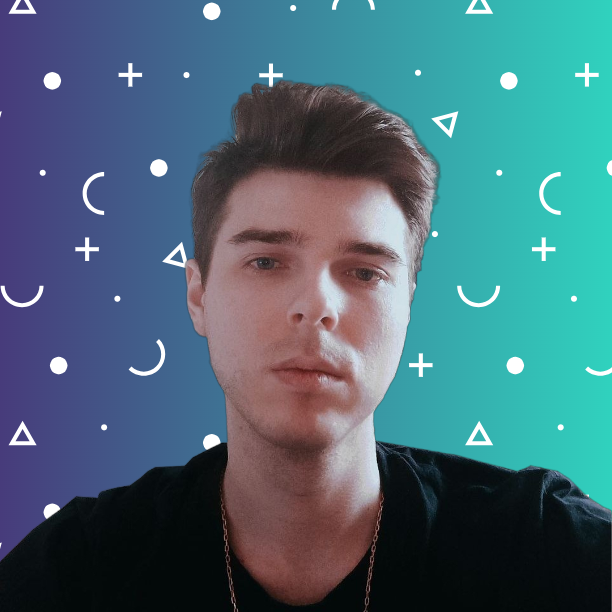
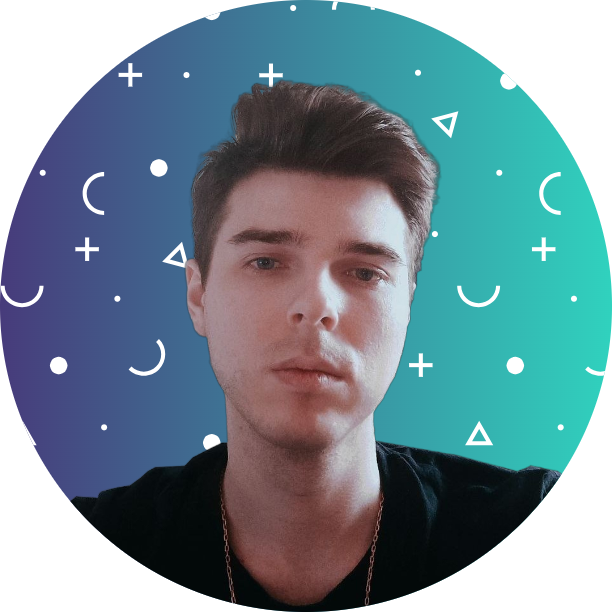
v15

Changed region(s): [[0.0, 0.0, 1.0, 1.0], [0.0, 0.0, 0.4657, 0.4657]]

diff --git a/vite-summary/src/components/CardsProject/CardsProject.jsx b/vite-summary/src/components/CardsProject/CardsProject.jsx
@@ -4,6 +4,9 @@ import CardComponent from '../CardComponent/CardComponent';
 import { useEffect, useState, useRef } from 'react';
 
 function CardsProject({ allCards }) {
+  
+  const [isAllCardsLoaded, setIsAllCardsLoaded] = useState(false);
+
   const [randomCard1, setRandomCard1] = useState(null);
   const [randomCard2, setRandomCard2] = useState(null);
   const [randomCard3, setRandomCard3] = useState(null);
@@ -83,6 +86,19 @@ function CardsProject({ allCards }) {
       setRandomCard6(newCards[5]);
     
   }, [allCards]);
+
+  useEffect(() => {
+    if (allCards && allCards.length > 0) {
+      // Если allCards доступны, установите флаг, что они загружены
+      setIsAllCardsLoaded(true);
+    }
+  }, [allCards]);
+
+  // Если allCards еще не загружены, отобразите загрузочный индикатор или ничего
+  if (!isAllCardsLoaded) {
+    // Здесь можно отобразить индикатор загрузки или другое сообщение о загрузке
+    return <div>Loading...</div>;
+  }
 
   return (
     <section className='project1' ref={project1Ref} id='project1'>

diff --git a/vite-summary/src/components/MyselfComponent/MyselfComponent.scss b/vite-summary/src/components/MyselfComponent/MyselfComponent.scss
@@ -62,6 +62,7 @@
     .avatar {
       grid-column: 1 / 4;
       grid-row: 4;
+      margin: 10px;
       .animation-block{
         opacity: 0;
         transition: opacity 2s, transform 1s;
@@ -75,9 +76,14 @@
           background-color: #11B4BE;
           width: 100%;
           height: auto;
+          display: flex;
+          align-items: center;
+          justify-content: center;
+          flex-direction: column;
 
           img{
             width: 220px;
+            padding: 20px;
             @media (min-width: 660px){
               width: 300px;
             }
@@ -148,6 +154,7 @@
         grid-row: 3;
         width: 100%;
         height: 100%;
+        border-radius: 0 0 0 15px;
         background-color: #1558df;
       }
       .status{
@@ -185,6 +192,9 @@
           justify-content: space-between;
           .avatar-conteiner{
             border-radius: 15px 0 0 15px;
+            @media (min-width: 1375px) {
+              border-radius: 50% 0 0 50%;
+            }
           }
           .my-comteiner{
             border-radius: 0 15px 15px 0;

diff --git a/vite-summary/src/components/MyMassages/MyMassages.scss b/vite-summary/src/components/MyMassages/MyMassages.scss
@@ -16,10 +16,10 @@
             background-color: #2fa0d884;
             display: flex;
             
-            padding: 5px 20px;
+            padding: 0 20px;
             font-size: 16px;
             align-items: center;
-            height: 50px;
+            height: auto;
             column-gap: 10px;
 
             opacity: 0;
@@ -33,12 +33,13 @@
 
             @media (min-width: 660px){
                 font-size: 20px;
-                padding: 20px;
+                
             }
             button{
                 width: auto;
+                min-height: 55px;
                 height: auto;
-                border-radius: 15px;
+                border-radius: 10px;
                 background-color: rgba(222, 184, 135, 0);
                 &:hover{
                     background-color: rgba(213, 95, 95, 0.732);

diff --git a/vite-summary/src/components/CardComponent/CardComponent.jsx b/vite-summary/src/components/CardComponent/CardComponent.jsx
@@ -14,10 +14,15 @@ function CardComponent({ randomCard }) {
   }
 
   useEffect(() => {
-    Animations('.card');
-  });
+    if (randomCard) {
+      Animations('.card');
+    }
+  }, [randomCard]);
 
-
+  if (!randomCard) {
+    return null;
+  }
+  
   return (
     <div className="card" style={{
       backgroundColor: randomCard ? (
